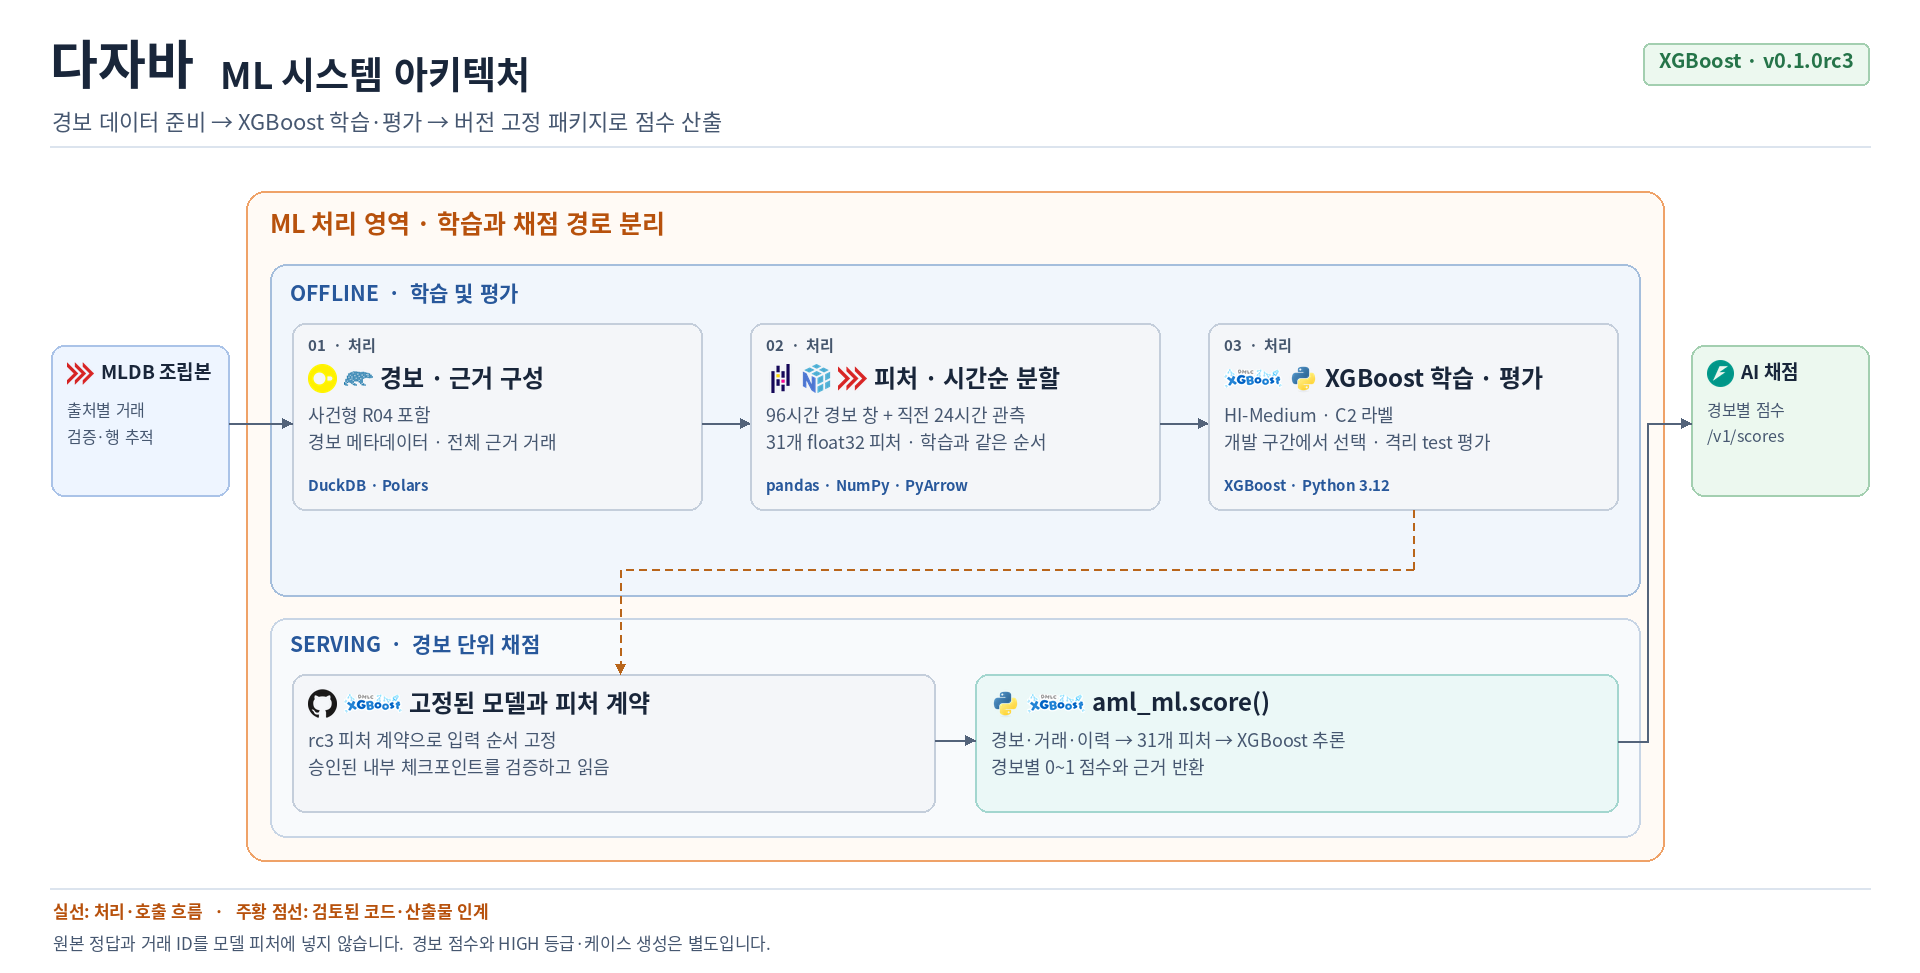
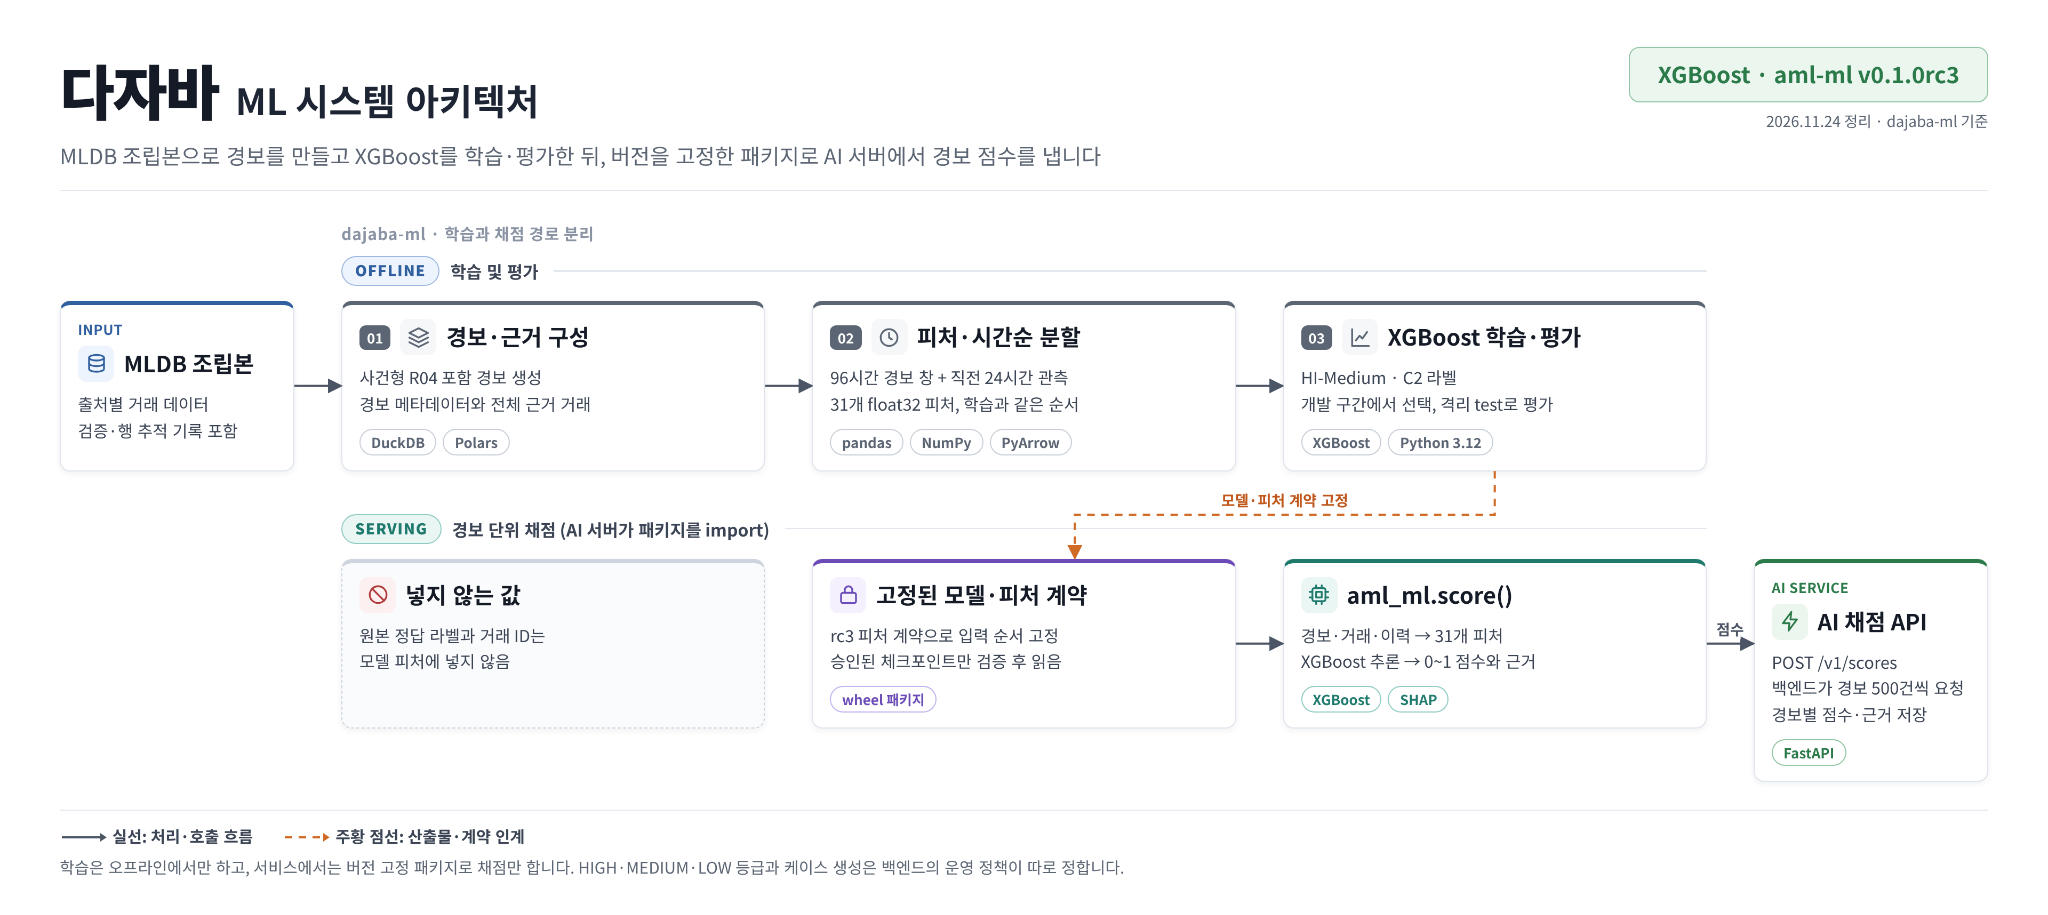
docs: SCRUM-384 ML 경보 채점 아키텍처 갱신

diff --git a/README.md b/README.md
@@ -1,20 +1,20 @@
 # dajaba-ml
 
-**경보의 과거 거래를 피처로 만들고, 조사 우선순위 모델을 학습·평가하는 프로젝트입니다.**
+**MLDB 조립 데이터로 XGBoost를 학습·평가하고, AI 서버가 사용하는 경보별 공식 ML 점수를 계산합니다.**
 
-오프라인 전처리와 채점 후보 패키지를 관리합니다. 아래 초기 오프라인 룰 범위는 서빙 패키지의 지원 룰과 버전이 다릅니다.
+HI-Medium의 C2 proxy 레이블로 학습한 사건형 R04 모델의 채점 코드를 `aml-ml` 패키지로 제공합니다. `v0.1.0rc3`의 채점 룰은 R01~R06입니다. 아래 2026-11-08 전처리 기록은 당시 오프라인 룰을 기준으로 합니다.
 
-## 범위와 현재 상태
+## 초기 오프라인 전처리 범위 (2026-11-08)
 
 ml_preparation 패키지를 한 단위로 관리합니다. 같은 패키지 안에서 전처리와 학습이 공유하는 기능을 폴더 이름만으로 나누지 않습니다.
 
-- 현재 오프라인 전처리 범위: R01·R02·R04·R06·R07.
+- 당시 오프라인 전처리 범위: R01·R02·R04·R06·R07.
 - HI·LI: 다섯 룰. SAML: R01·R02·R04·R06, R07은 적용 불가로 구분.
 - 2026-11-08 실행의 산출물 생성과 포맷 검증은 완료 보고됨. 모델 학습·성능 평가·서비스 ID 교차검증 완료를 뜻하지 않습니다.
 - 기존 학습 코드를 다중 룰 산출물에 연결하는 어댑터와 평가 수용 기준은 별도 검증 대상입니다.
 - 최신 리팩터링은 정적 검토와 사용자 실행 회귀 검증을 구분해서 인수합니다.
 
-## 파이프라인
+## 초기 오프라인 파이프라인
 
 ```mermaid
 flowchart TD
@@ -36,9 +36,9 @@ flowchart TD
   class TRAIN,VAL,TEST,BUNDLE,API next
 ```
 
-녹색은 현재 전처리 경로, 노란색은 이번 다중 룰 데이터 기준 후속 검증·실행 단계입니다. 데이터 생성 완료와 모델 성능 입증은 다릅니다.
+녹색은 2026-11-08 실행에서 검증한 전처리 경로, 노란색은 당시 후속 검증·실행 단계입니다. 데이터 생성 완료와 모델 성능 입증은 다릅니다.
 
-## 적용 룰
+## 초기 오프라인 적용 룰
 
 | 룰 | 초기 적용 조건 |
 | --- | --- |
@@ -50,7 +50,7 @@ flowchart TD
 
 R01·R02·R07은 B7 분 단위 24h 창과 거짓→참 경보 생성 기준을 따릅니다. R06의 기존 BIPARTITE 의미를 재사용하지 않습니다. R03·R05·R08은 이번 실행 범위 밖입니다.
 
-실제 조건값은 configs/offline_rules_v1_20261108.json의 params 의미와 키를 따릅니다. 오프라인 rule_versions는 백엔드 배포 버전과 별도 네임스페이스입니다. 백엔드 v1과 문자열이 같다고 가정하지 않고, 조건·창·근거를 대조합니다.
+초기 오프라인 룰의 조건값은 [공개 설정 예제](configs/offline_rules.example.json)의 `policy.rules`에서 확인할 수 있습니다. 오프라인 rule_versions는 백엔드 배포 버전과 별도 네임스페이스입니다. 백엔드 v1과 문자열이 같다고 가정하지 않고, 조건·창·근거를 대조합니다.
 
 ## SAML의 한계
 
@@ -85,22 +85,24 @@ SAML의 단일 Amount를 지급액과 수취액 양쪽으로 복제하지 않습
 
 ## 환경과 사용
 
-Python 3.12, DuckDB·PyArrow·Polars·Pandas·NumPy·XGBoost를 사용합니다. 설치 기준은 루트 `pyproject.toml`입니다. [채점 후보 설치와 검증](docs/rc3-serving.md)을 참고합니다.
+Python 3.12, DuckDB·PyArrow·Polars·Pandas·NumPy·XGBoost를 사용합니다. 설치 기준은 루트 `pyproject.toml`입니다. [rc3 채점 패키지 설치와 검증](docs/rc3-serving.md)을 참고합니다.
 
-현재 입력 인덱스와 일부 테스트는 기존 MLDB 작업 공간에 의존합니다. 저장소 분리 후 독립 설치·작은 회귀 검증을 통과하기 전에는 clone 직후 실행 가능하다고 보지 않습니다. 전체 전처리 런처는 검사가 끝나면 데이터 생성까지 진행하므로 테스트만 할 때 사용하지 않습니다.
+오프라인 입력 인덱스와 일부 통합 테스트는 MLDB 작업 공간에 의존합니다. rc3 채점 계약의 합성 회귀 검사는 이 저장소에서 실행할 수 있습니다. 전체 전처리 런처는 검사가 끝나면 데이터 생성까지 진행하므로 테스트만 할 때 사용하지 않습니다.
 
-## CI/CD 구조
+## 시스템 아키텍처
 
-![다자바 ML의 오프라인 학습과 AI 채점 패키지 인계](docs/images/ml-architecture-ci.png)
+![MLDB 조립 데이터로 XGBoost를 학습하고 AI 서버가 rc3 패키지로 경보를 채점하는 흐름](docs/images/ml-architecture-ci.png)
 
-원격 공식 태그는 `v0.1.0rc2`다. 이 브랜치의 사건형 R04 후보 소스 버전은 `0.1.0rc3`이며, 가중치는 승인된 내부 파일에서 읽는다. [후보 설치·채점 재현](docs/rc3-serving.md)에서 명령과 피처 계약을 확인할 수 있다. 그림의 AI 통합 검사는 AI 저장소의 PR 검증이다. ML 저장소 자체의 Actions 연동과 서버 적용은 별도 단계다.
+AI 서버의 `POST /v1/scores`는 실제 채점 모드에서 `v0.1.0rc3`의 `aml_ml.score()`를 호출합니다. 패키지는 96시간 경보 창의 근거와 직전 24시간 이력의 완전성을 확인한 뒤, 학습 때와 같은 순서의 `float32` 피처 31개로 경보당 0~1 점수를 계산합니다. 위험 등급 판정과 케이스 생성은 백엔드 정책이 담당합니다. 가중치는 승인된 내부 체크포인트에서 읽습니다. [공식 태그](https://github.com/dajaba-team/dajaba-ml/tree/v0.1.0rc3) · [설치·채점 재현](docs/rc3-serving.md)
+
+### CI/CD 제안
 
 <!-- cicd-pipeline-image: ml-cicd-pipeline -->
 [이전 CI/CD 그림](docs/images/ml-cicd-pipeline.png)
 
-[확대 가능한 SVG 원본](docs/images/ml-cicd-pipeline.svg)
+[이전 CI/CD 그림의 SVG 원본](docs/images/ml-cicd-pipeline.svg)
 
-실제 기술·라이브러리 로고로 구성한 그림입니다. 파란 실선은 현재 로컬에서 확인한 정의·구현, 초록 점선은 CI/CD 제안, 주황 점선은 사용자 실행·별도 승인 또는 후속 검증 단계입니다. 워크플로 정의와 실제 실행 성공은 구분하며, 미확정 배포 기술은 로고로 단정하지 않습니다. 아래 Mermaid와 기존 설명은 편집 가능한 요약으로 보존합니다.
+이전 CI/CD 그림의 파란 실선은 현재 로컬에서 확인한 정의·구현, 초록 점선은 CI/CD 제안, 주황 점선은 사용자 실행·별도 승인 또는 후속 검증 단계입니다. 워크플로 정의와 실제 실행 성공은 구분하며, 미확정 배포 기술은 로고로 단정하지 않습니다. 아래 Mermaid와 기존 설명은 편집 가능한 요약으로 보존합니다.
 <!-- /cicd-pipeline-image -->
 
 ```mermaid
@@ -124,7 +126,7 @@ flowchart LR
 
 ## 현재 검증 진입점
 
-채점 후보의 공개 회귀는 `python -m pytest tests/test_rc3_serving_contract.py -q`로 실행합니다. 기존 MLDB 통합 검사는 두 데이터 패키지를 함께 설치한 뒤 아래에 적힌 방법으로 실행합니다.
+rc3 채점 패키지의 공개 회귀는 `python -m pytest tests/test_rc3_serving_contract.py -q`로 실행합니다. 기존 MLDB 통합 검사는 두 데이터 패키지를 함께 설치한 뒤 아래에 적힌 방법으로 실행합니다.
 
 현재 src/aml_ml은 MLDB 패키지를 import하지 않지만 tests/test_prepare.py는 DBcheck·AssembleDB로 합성 통합 입력을 생성합니다. 실제 폴더의 전체 회귀는 세 패키지를 함께 연결해 검사합니다. 별도 ML 저장소에서는 자체 검사와 이 통합 검사를 구별하고, MLDB 버전을 명시해야 합니다.
 
